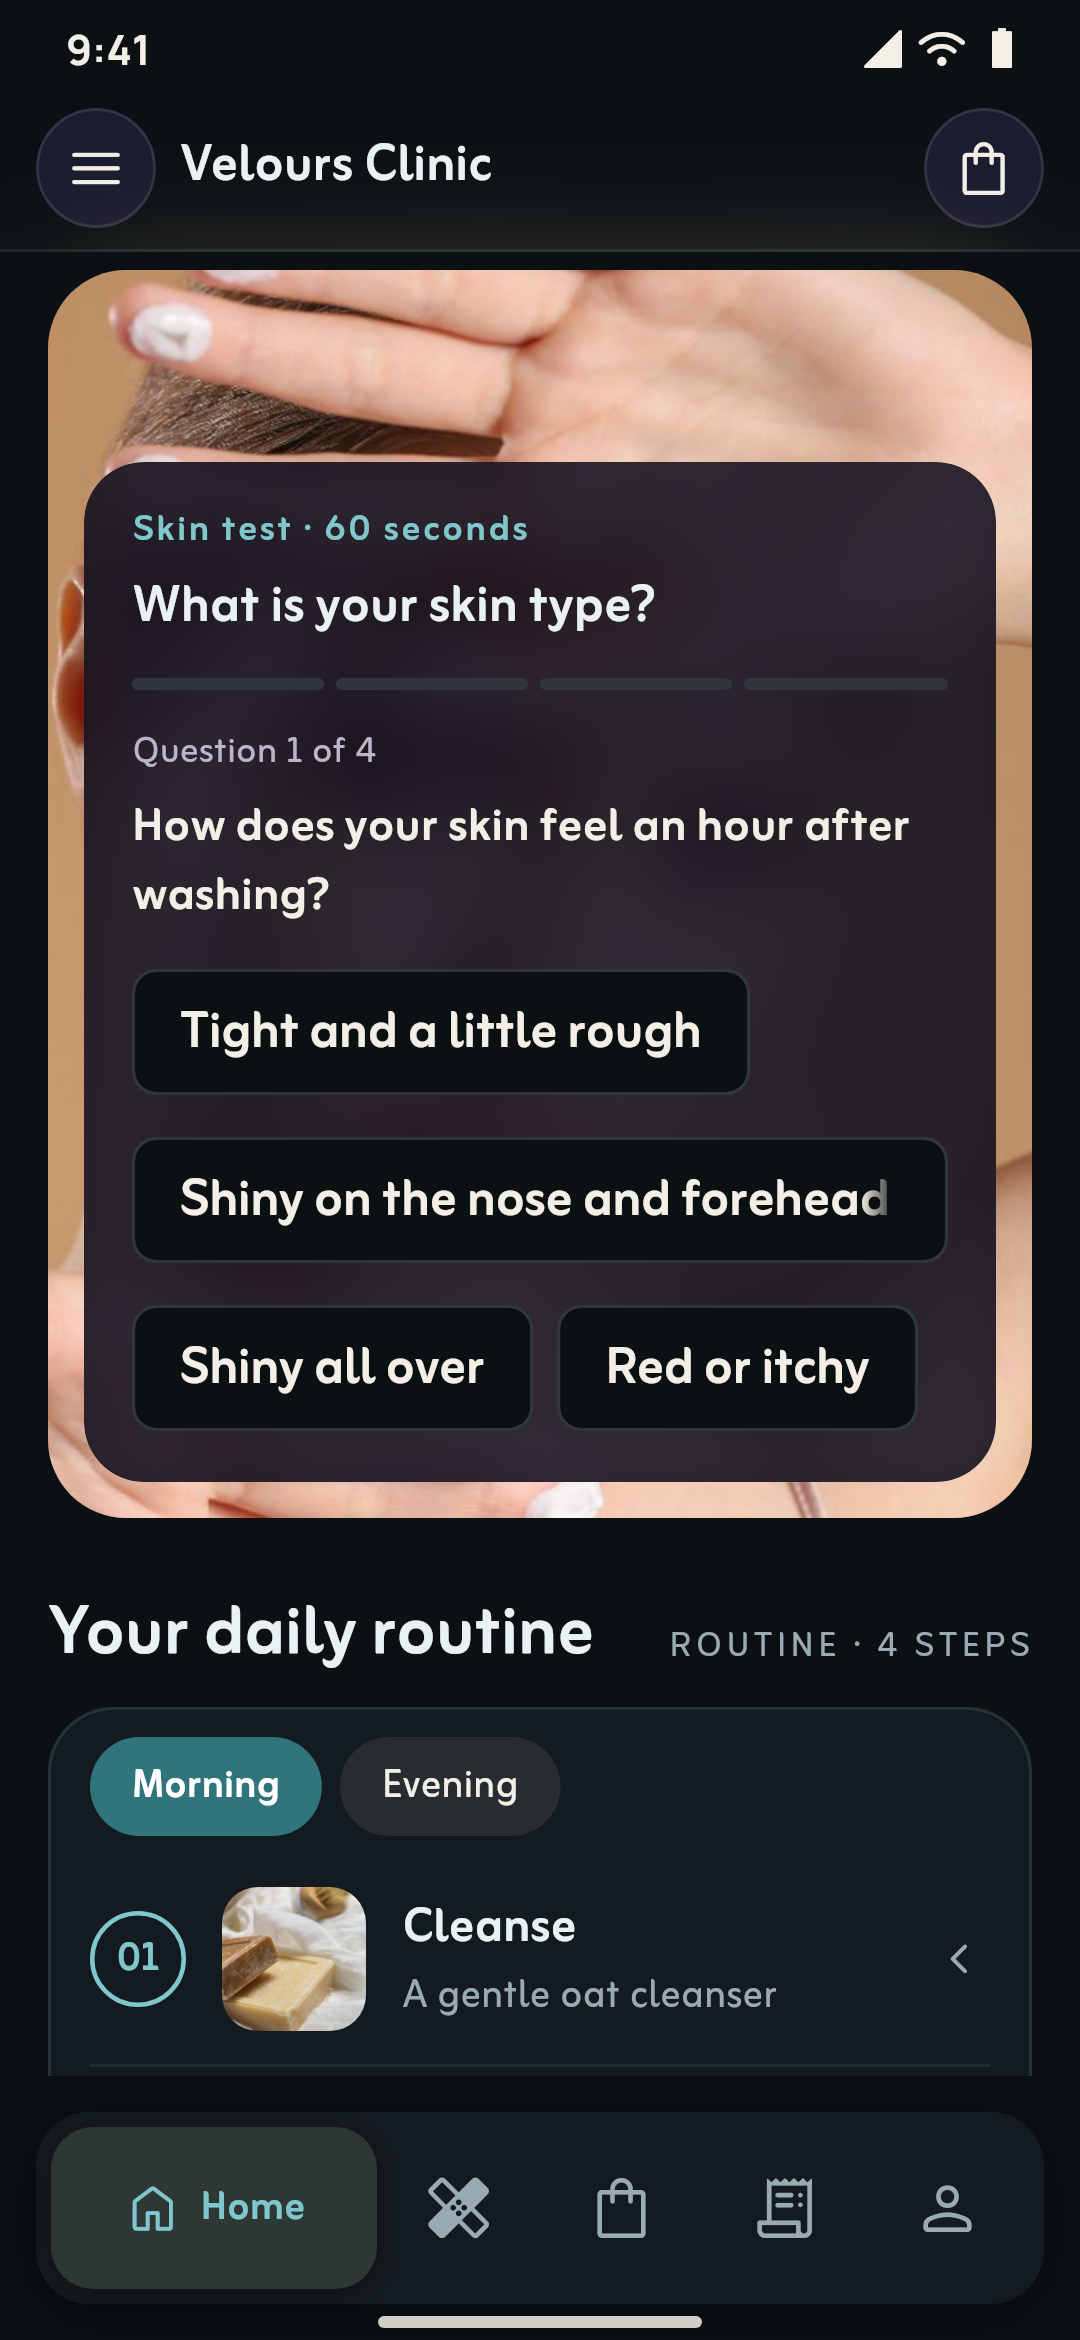
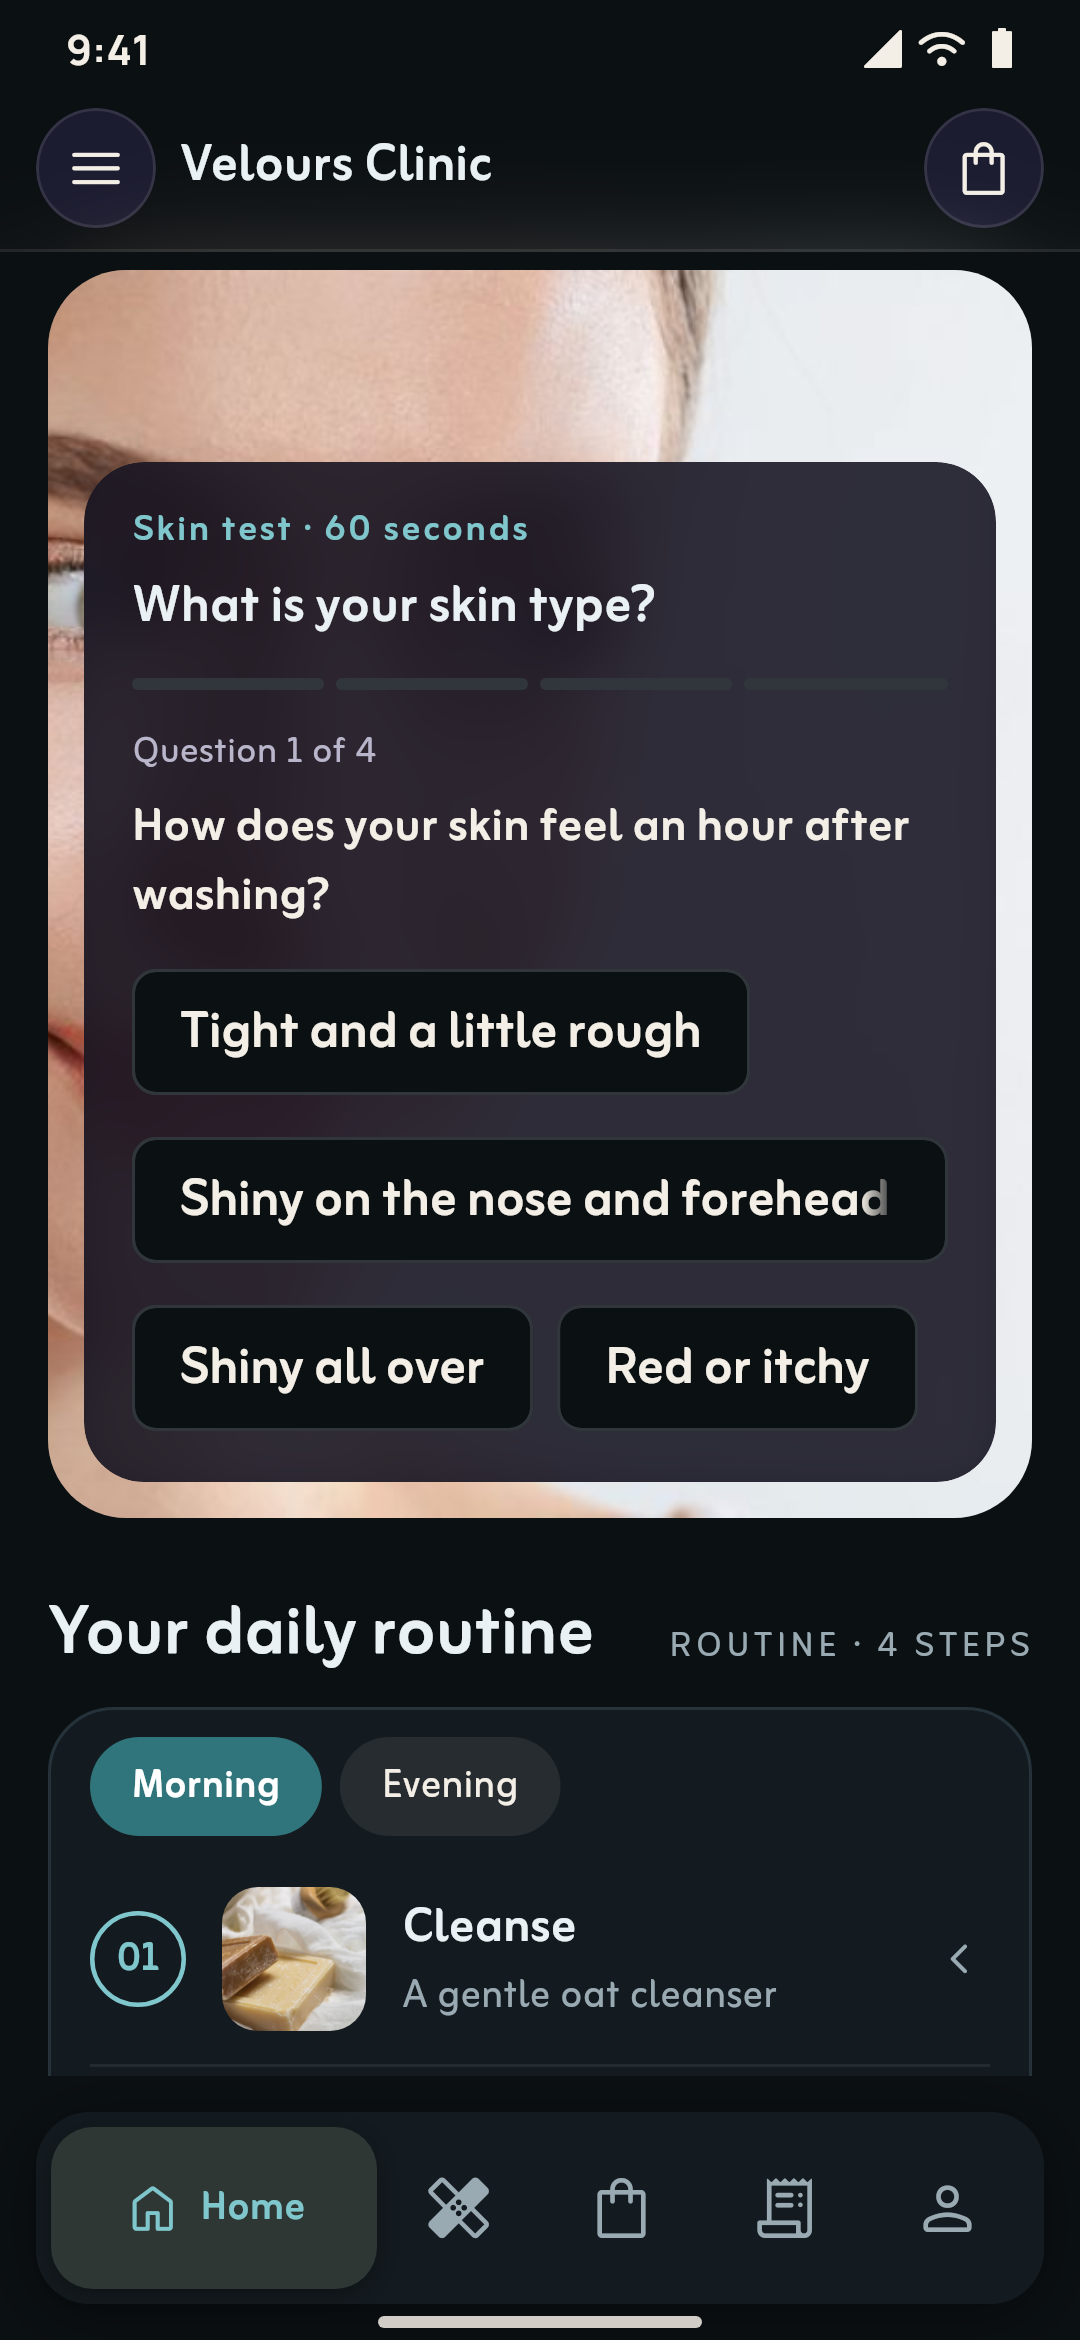
224 Photos that read as handmade and a clearer skin-test backdrop; site pictures refreshed
Claude-Session: https://claude.ai/code/session_01PYAXYcUdMEm2E8mMQSohYa

Changed region(s): [[0.0306, 0.0936, 0.9778, 0.6551], [0.0306, 0.5303, 0.3361, 0.6551], [0.0306, 0.4368, 0.0917, 0.4679]]

diff --git a/platform/web/src/lib/demo/kits/crochet.ts b/platform/web/src/lib/demo/kits/crochet.ts
@@ -34,7 +34,7 @@ const PRODUCTS: readonly KitProduct[] = [
   { sku: "CR-121", name: "Bunn pom-pom beanie", sub: "Beanies", priceCents: 650_00, salePriceCents: null, photos: ["beanie-girl"], featured: true, description: "A ribbed beanie with a big faux-fur pom-pom, snug and warm.", choices: [colour("Olive", "Cream", "Plum")], makeDays: days(2, 3) },
   { sku: "CR-122", name: "Talj slouchy beanie", sub: "Beanies", priceCents: 520_00, salePriceCents: null, photos: ["pom-beanie"], featured: false, description: "A slouchy beanie in an ice-blue wool, with a yarn pom-pom.", choices: [colour("Ice blue", "Grey")], makeDays: days(2, 3) },
   { sku: "CR-131", name: "Mudfi'a striped socks", sub: "Socks & mittens", priceCents: 380_00, salePriceCents: null, photos: ["socks"], featured: false, description: "Thick striped house socks in soft wool, made to your shoe size.", choices: [colour("Grey stripe", "Brown stripe")], makeDays: days(2, 3) },
-  { sku: "CR-132", name: "Hodn mittens", sub: "Socks & mittens", priceCents: 520_00, salePriceCents: null, photos: ["mittens-snow", "mittens-coffee"], featured: true, description: "Cable mittens in a soft brushed wool, warm enough for a winter morning.", choices: [colour("Light grey", "Cream")], makeDays: days(3, 4) },
+  { sku: "CR-132", name: "Hodn mittens", sub: "Socks & mittens", priceCents: 520_00, salePriceCents: null, photos: ["mittens-coffee", "mittens-snow"], featured: true, description: "Cable mittens in a soft brushed wool, warm enough for a winter morning.", choices: [colour("Light grey", "Cream")], makeDays: days(3, 4) },
   { sku: "CR-133", name: "Shita Nordic slippers", sub: "Socks & mittens", priceCents: 690_00, salePriceCents: null, photos: ["slippers"], featured: false, description: "Nordic pattern slipper socks with a soft cuff and a non-slip sole.", choices: [colour("Navy & red", "Cream & grey")], makeDays: days(4, 5) },
   // ——— Blankets & throws ———
   { sku: "CR-201", name: "Zaytoon throw set", sub: "Throws", priceCents: 2900_00, salePriceCents: null, photos: ["scarves-stack"], featured: true, description: "Three throws in olive, grey and cream, crocheted to go together on a sofa or a bed.", choices: [colour("Olive set", "Grey set")], dimensions: { width: 120, height: 150, depth: null }, makeDays: days(8, 10) },

diff --git a/platform/web/src/lib/studio/demo-designs/crochet-cd-signature.ts b/platform/web/src/lib/studio/demo-designs/crochet-cd-signature.ts
@@ -188,7 +188,7 @@ function yarnPicker(ctx: SectionContext, l: Look): StudioNode {
 const MAKERS: readonly [string, SectionWord, SectionWord, SectionWord, SectionWord, readonly string[]][] = [
   ["cozy-sweater", "gcMaker1", "gcMaker1Line", "gcMaker1Stats", "gcMaker1Days", ["scarves-stack", "red-scarf", "fluffy-blanket"]],
   ["beanie-girl", "gcMaker2", "gcMaker2Line", "gcMaker2Stats", "gcMaker2Days", ["teddy-sweater", "snowman-plush", "bunny-knit"]],
-  ["green-sweater", "gcMaker3", "gcMaker3Line", "gcMaker3Stats", "gcMaker3Days", ["straw-hat", "basket-room", "straw-close"]],
+  ["green-sweater", "gcMaker3", "gcMaker3Line", "gcMaker3Stats", "gcMaker3Days", ["straw-close", "basket-room", "buttons"]],
 ];
 
 /** "Who made it?": each maker's card, her photo and name, her craft, three of her pieces, her count and her days. */

diff --git a/platform/web/src/lib/studio/demo-designs/beauty-cd-signature.ts b/platform/web/src/lib/studio/demo-designs/beauty-cd-signature.ts
@@ -128,7 +128,7 @@ function clinicQuiz(ctx: SectionContext, l: Look): StudioNode {
     const url = sigPhoto(ctx, P(photo));
     return { ...sigEntry(ctx, { title: name, text, label: "btQuizShop" }), icon: ic, ...(url ? { image_url: url } : {}), action: shop };
   });
-  const photo = sigPhoto(ctx, P("quiz"));
+  const photo = sigPhoto(ctx, P("hero-calm"));
   return {
     id: id(),
     type: "column",
